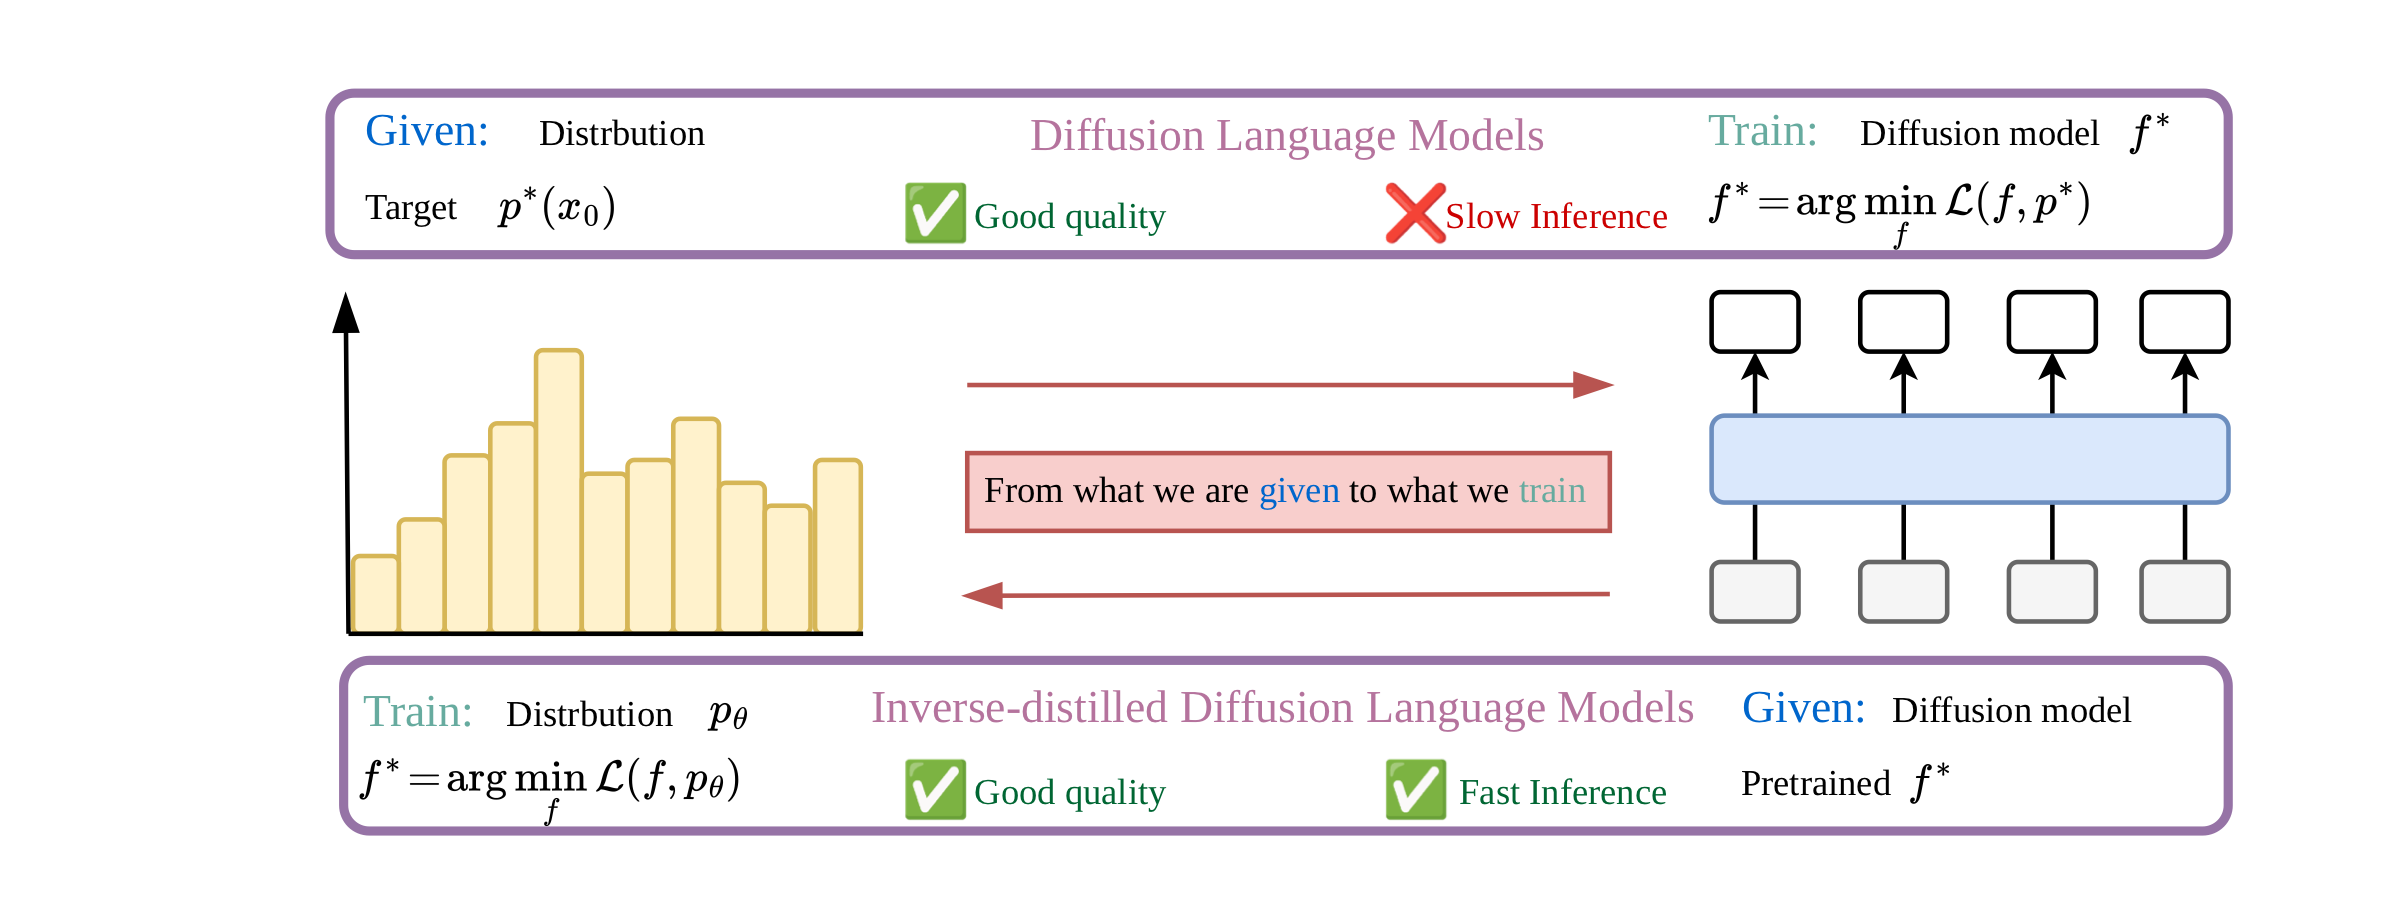
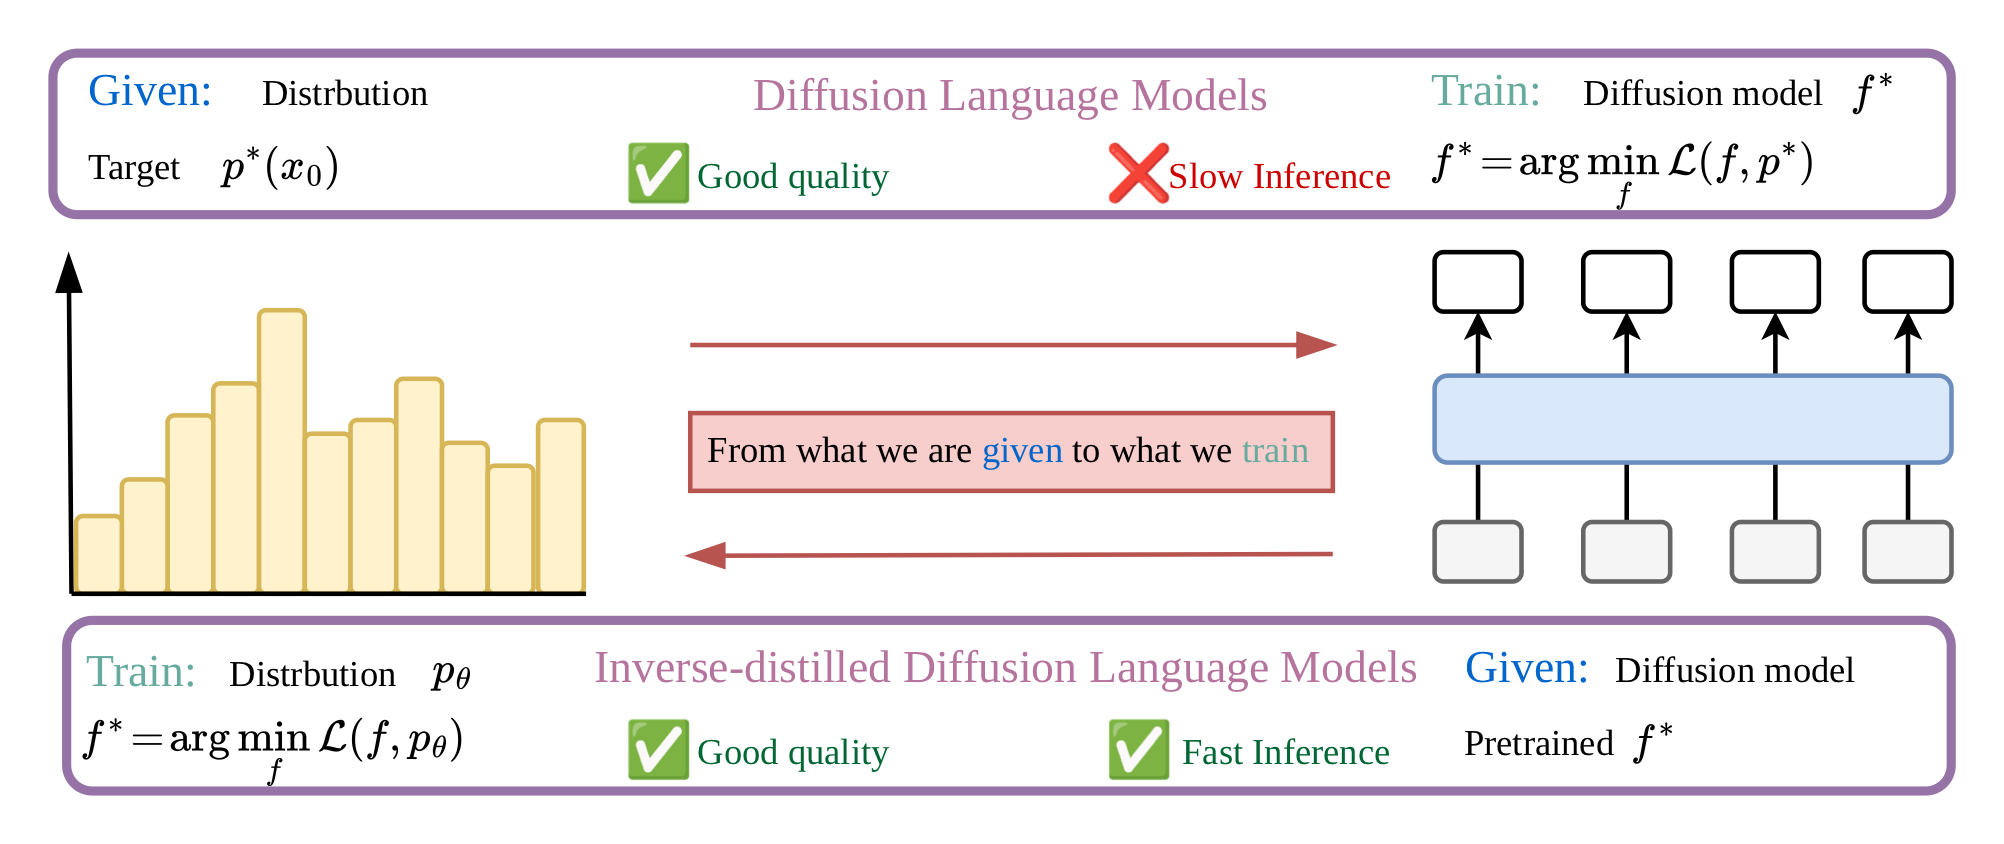
Improve IDLM teaser crop

Changed region(s): [[0.0, 0.0308, 0.99, 0.955], [0.3403, 0.4005, 0.6806, 0.4313], [0.0309, 0.3081, 0.0619, 0.3697]]

diff --git a/index.html b/index.html
@@ -7,12 +7,12 @@
   <meta name="keywords" content="IDLM, inverse distillation, diffusion language models, discrete diffusion, language models">
   <meta property="og:title" content="IDLM: Inverse-distilled Diffusion Language Models">
   <meta property="og:description" content="A project page for IDLM, a post-training framework for accelerating Diffusion Language Models.">
-  <meta property="og:image" content="assets/idlm-teaser.png?v=teaser-forward-inverse-20260528">
+  <meta property="og:image" content="assets/idlm-teaser.png?v=teaser-forward-inverse-crop-20260528">
   <meta property="og:type" content="website">
   <meta name="twitter:card" content="summary_large_image">
   <meta name="twitter:title" content="IDLM: Inverse-distilled Diffusion Language Models">
   <meta name="twitter:description" content="Few-step generation for Diffusion Language Models via inverse distillation.">
-  <meta name="twitter:image" content="assets/idlm-teaser.png?v=teaser-forward-inverse-20260528">
+  <meta name="twitter:image" content="assets/idlm-teaser.png?v=teaser-forward-inverse-crop-20260528">
   <title>IDLM: Inverse-distilled Diffusion Language Models</title>
   <link rel="icon" type="image/png" sizes="32x32" href="assets/lisearch-favicon-32.png?v=lisearch-20260520">
   <link rel="icon" type="image/png" sizes="192x192" href="assets/lisearch-favicon-192.png?v=lisearch-20260520">
@@ -70,7 +70,7 @@
     <section class="teaser">
       <div class="container">
         <figure>
-          <img src="assets/idlm-teaser.png?v=teaser-forward-inverse-20260528" alt="Overview diagram contrasting Diffusion Language Models with Inverse-distilled Diffusion Language Models.">
+          <img src="assets/idlm-teaser.png?v=teaser-forward-inverse-crop-20260528" alt="Overview diagram contrasting Diffusion Language Models with Inverse-distilled Diffusion Language Models.">
           <figcaption>
             Standard DLMs produce high-quality samples but require many inference steps. IDLM trains a distilled generator that keeps the teacher behavior while moving to fast inference.
           </figcaption>
